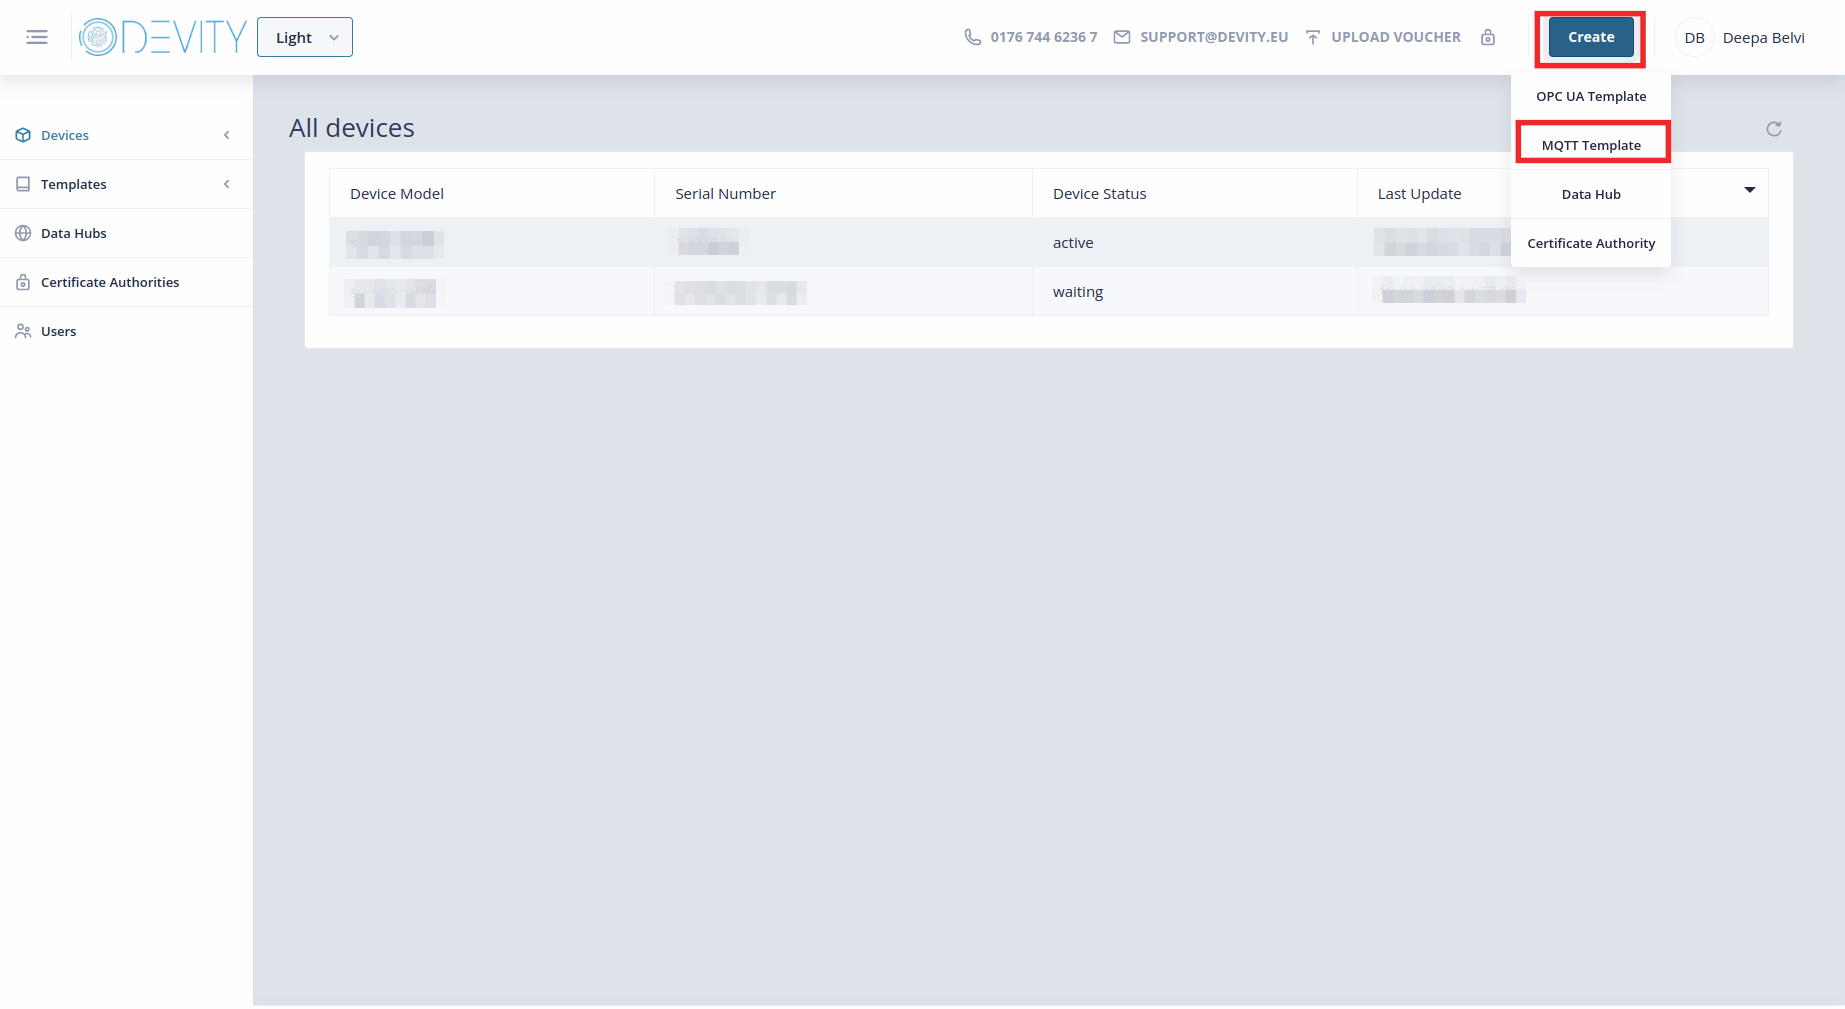
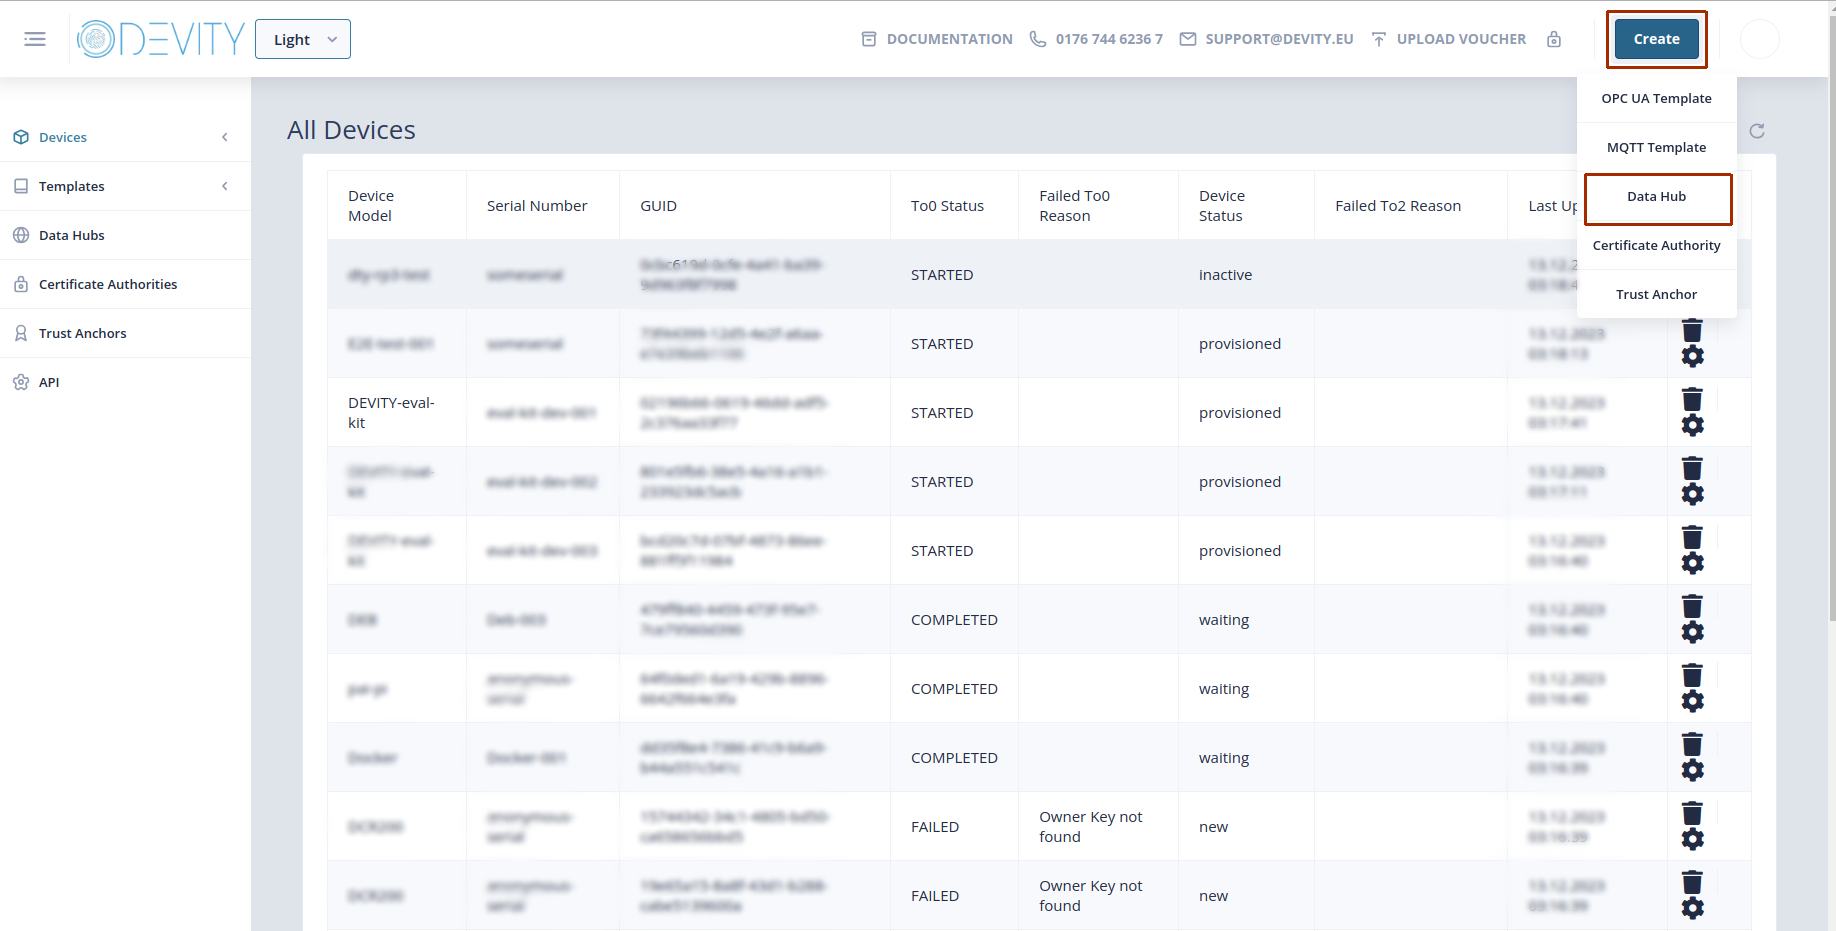
Modified tutorial for Creating DataHub and MQTT Template using new changes for Certificate Authority and Certificate Templates

diff --git a/website/docs/tutorial/Thingsboard - Rule Engine/KEYNOA.md b/website/docs/tutorial/Thingsboard - Rule Engine/KEYNOA.md
@@ -25,8 +25,9 @@ If multiple MQTT Templates exist, the newer template will be ignored. Hence your
 1. In the KEYNOA Cloud "Create" the Data Hub you want your device to connect to.
 ![KEYNOA](/img/KEYNOA/Dashboard.png) 
 
+
 2. Select the ThingsBoard Data Hub.
-![KEYNOA](/img/KEYNOA/Thingsboard/Data-Hub.png)
+![KEYNOA](/img/KEYNOA/Thingsboard/SelectDataHub.png)
 
 3. Fill in the details of your ThingsBoard instance as shown below and click on "Create".
 
@@ -35,10 +36,11 @@ If multiple MQTT Templates exist, the newer template will be ignored. Hence your
 - MQTT Broker URL: Copy the following URL `ssl://thingsboard.devity.eu:8883` and paste it in the respective field.
 - Topic: Use the default `v1/devices/me/telemetry`
 - Provision Key: To get the Provisioning Key you need to continue the tutorial and execute step 4.
-- Provision Secret: To get the Provisioning Secret you need to continue the tutorial and execute steps 4.
-- Certificate Authority: Select `KEYNOA-CLOUD INT CA2 MQTT v1` from the dropdown.
+- Provision Secret: To get the Provisioning Secret you need to continue the tutorial and execute step 4.
+- Certificate Authority: Select `KEYNOA-CLOUD INT CA2 MQTT v1` from the dropdown or follow step 5 to create a new CA.
+- Trust Anchor: Select the trust Anchor that will issue TLS certificate for DataHub website. Follow step 5 to create a new Trust Anchor.
 
-![KEYNOA](/img/KEYNOA/Thingsboard/Data-Hub-details.png)
+![KEYNOA](/img/KEYNOA/Thingsboard/DatahubProvisionKey.png)
 
 4. Log in to the [ThingsBoard](https://thingsboard.devity.eu/login) with the credentials you find in KEYNOA (just click on the lock icon in the header of KEYNOA). The Provision Key and Secret can be found in ThingsBoard in an already existing device profile (see step 4a). Otherwise you first need to create a device profile (see 4b) 
 <!--- ![KEYNOA](/img/KEYNOA/Thingsboard/Device-Credentials.png) --->
@@ -74,6 +76,40 @@ If multiple MQTT Templates exist, the newer template will be ignored. Hence your
 
 ![KEYNOA](/img/KEYNOA/Thingsboard/Device-provisioning.png)
 
+5. To add a new "Certificate Authority" click on "Add Certificate".
+
+![KEYNOA](/img/KEYNOA/Thingsboard/AddCert.png)
+
+5a-1. Choose your level of expertise to create a new CA.
+
+![KEYNOA](/img/KEYNOA/Thingsboard/LevelOfExperience.png)
+
+5a-2. Choose "CA Type" and "CA Name". CA name could be any text to identify the correct CA.
+
+![KEYNOA](/img/KEYNOA/Thingsboard/ChooseCAName.png)
+
+5a-3. Basic details of CA are auto loaded. The fields can be modified to suit the CA. 
+
+![KEYNOA](/img/KEYNOA/Thingsboard/CABasicDetails.png)
+
+5a-4. Fill "Issuer Details". Fields are auto-filled with relevant values, and these can be modified. 
+The `Serial Number` and `Common Name` are auto filled with values from voucher, and these can be modified.
+Click on "Submit" to create a new CA.
+
+![KEYNOA](/img/KEYNOA/Thingsboard/IssuerDetails.png)
+
+5a-5. Click "Close" to finish creating a new CA.
+
+![KEYNOA](/img/KEYNOA/Thingsboard/CACreated.png)
+
+5a-6. The newly created CA is listed under `Certificate Authorities`. This can be now used to create the Datahub. Now the Datahub can be created by choosing the newly created CA. 
+
+![KEYNOA](/img/KEYNOA/Thingsboard/NewCAListed.png)
+
+5b-1. To create a new "Trust  Anchor" click on `Add Trust Anchor` and follow the steps in 5a-1 to 5a-6.
+
+![KEYNOA](/img/KEYNOA/Thingsboard/AddTrustAnchor.png)
+
 ## Create Template
 :::info
 If you have not uploaded your voucher yet and therefore the list of all devices is empty, then [upload the voucher](/tutorial/Prerequsites#upload-voucher) now.
@@ -84,39 +120,47 @@ If MQTT templates already exist, please delete them by clicking on the burger me
 
 1. Create the MQTT template that assigns your device to the Data Hub.
 Use the "Create" button and click on "MQTT template".
-![KEYNOA](/img/KEYNOA/Dashboard.png)
+![KEYNOA](/img/KEYNOA/MQTTCreateTemplate.png)
 
 2. Select your Data Hub. Click on "Next".
-![KEYNOA](/img/KEYNOA/Thingsboard/MQTT-template-1.png)
+![KEYNOA](/img/KEYNOA/MQTT1SelectDataHub.png)
 
-3. Use the same device details as shown below and click on "Next".
+3. Populate the "Policy Configurations" which will be used to create MQTT application certificate. 
+The Policy Configurations are partially auto filled, while all the fields can be modified. 
+
+\*Hover over the `i` circles for more information of each field to know more. 
+
+![KEYNOA](/img/KEYNOA/MQTT2PolicyConfigurations.png)
+
+4. Use the device details as shown below and click on "Next".
 
 - Choose Device Property: `Device Model`
 - Type in the following Device Model for your Janz Tec Eval Kit Device: `sy-epc-rpi30`
 
 These properties will be matched against the information which the device provides about itself during the onboarding process. If it matches the template, the template will be used to configure the device.
+ 
+![KEYNOA](/img/KEYNOA/MQTT3FilterDevices.png)
 
 :::info
 For more information about the template concept see the [MQTT Templates Section](/reference/mqtt-template)
 :::
- 
-![KEYNOA](/img/KEYNOA/MQTT-template-2.png)
 
-
-4. Give the template an Identifier Name and click on "Save".
+5. Give the template an Identifier Name and click on "Save".
 
 - Identifier Name: `Thingsboard MQTT template`
 
-![KEYNOA](/img/KEYNOA/MQTT-template-3.png)
+![KEYNOA](/img/KEYNOA/MQTT4TemplateID.png)
 
-5. You have now created the setup instruction for your device.
+6. You have now created the setup instruction for your device.
 KEYNOA and ThingsBoard are now set up and your device is now ready for the onboarding process.
+
+![KEYNOA](/img/KEYNOA/MQTTTemplateCreated.png)
 
 :::info
 Connect your device to the internet via an ethernet cable and power it up.
 :::
 
-6. The onboarding is completed, when the device status in KEYNOA switches to **provisioned**. You can refresh the table by clicking the refresh button in the top right corner.
+7. The onboarding is completed, when the device status in KEYNOA switches to **provisioned**. You can refresh the table by clicking the refresh button in the top right corner.
 
 :::info
 The onboarding including the boot process should not take longer than two minutes.
@@ -124,7 +168,7 @@ The onboarding including the boot process should not take longer than two minute
 
 ![KEYNOA](/img/KEYNOA/devices_list_refresh.png)
 
-7. Your device is now provisioned to ThingsBoard. Continue with the setup of ThingsBoard.
+8. Your device is now provisioned to ThingsBoard. Continue with the setup of ThingsBoard.
 
 :::info
 Check the devices section of your ThingsBoard to see the new device.
